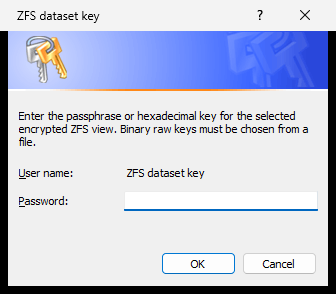
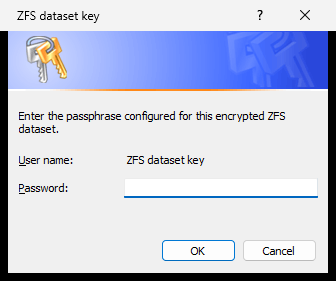
Finalize Windows UI evidence

diff --git a/src/bin/zfs-send-explore-windows/mod.rs b/src/bin/zfs-send-explore-windows/mod.rs
@@ -2137,7 +2137,7 @@ unsafe extern "system" fn action_dialog_proc(
     let state = GetWindowLongPtrW(hwnd, GWLP_USERDATA) as *mut ActionDialogState;
     match message {
         WM_COMMAND if !state.is_null() => {
-            let command = (wparam & 0xffff) as usize;
+            let command = wparam & 0xffff;
             if command >= 1000 {
                 (*state).selected = (command - 1000) as i32;
                 DestroyWindow(hwnd);
@@ -2342,7 +2342,10 @@ unsafe fn show_fallback_action_dialog(
         SetFocus(first_button);
     }
     let mut message = MSG::default();
-    while !state.finished {
+    loop {
+        if state.finished {
+            break;
+        }
         let result = GetMessageW(&mut message, null_mut(), 0, 0);
         if result <= 0 {
             if result == 0 {
@@ -2416,7 +2419,7 @@ unsafe fn show_action_dialog(
     let activation_config = ACTCTXW {
         cbSize: size_of::<ACTCTXW>() as u32,
         dwFlags: ACTCTX_FLAG_HMODULE_VALID | ACTCTX_FLAG_RESOURCE_NAME_VALID,
-        lpResourceName: 1_usize as *const u16,
+        lpResourceName: std::ptr::without_provenance::<u16>(1),
         hModule: instance,
         ..ACTCTXW::default()
     };

diff --git a/docs/windows-ux-review.md b/docs/windows-ux-review.md
@@ -8,14 +8,14 @@ The follow-up review applies one rule throughout the UI: when the app knows the 
 
 | Friction found after v0.5.0 | v0.5.1 response |
 | --- | --- |
-| The encrypted-view prompt said a binary raw key must be chosen from a file, but supplied no file action. | A native command-link dialog reads the configured `raw`, `hex`, or `passphrase` key format and places direct entry and the appropriate file chooser together. Raw datasets explicitly distinguish Slide's 64-character representation from an original 32-byte binary file. |
+| The encrypted-view prompt said a binary raw key must be chosen from a file, but supplied no file action. | A native contextual action chooser reads the configured `raw`, `hex`, or `passphrase` key format and places direct entry and the appropriate file chooser together. Raw datasets explicitly distinguish Slide's 64-character representation from an original 32-byte binary file. |
 | A missing or incorrect LUKS pool passphrase, ZFS key, or `.detto` agent password ended as a generic operation error. | The relevant direct/file choice reopens and the interrupted source, browse, or image operation retries after replacement. |
 | One ZFS key could be reused accidentally when switching encrypted datasets. | Retained ZFS keys are keyed by source and view selector; unrelated datasets do not silently receive one another's key material. |
 | Starting a new source cleared the working source and its credentials before validation. | Source replacement is transactional: the current catalog and listing remain active until the new source opens successfully. Scoped credentials are committed or cleared only after success. |
 | **Ctrl+O** and **Ctrl+Shift+O** could reuse text already present in the source box instead of showing a chooser. | Both accelerators always open their documented picker. **Choose** selects and opens in one step; **Open path** is the explicit action for pasted/manual paths. |
 | The image row showed blank disabled controls outside inception mode, and two unlabeled number boxes inside it. | Image-only navigation appears only inside an image. The Open-image action moves beside Extract, while advanced range fields are hidden by default and labeled when enabled. |
 | The active image's offset and size were carried into the next selected child image. | Child range fields are cleared after every successful descent. They now describe only the next selected file. |
-| Clearing credentials closed an active source without first exposing that consequence. | A warning command link explicitly says **Clear credentials and close source** before releasing the retained secrets and read session. |
+| Clearing credentials closed an active source without first exposing that consequence. | A warning action explicitly says **Clear credentials and close source** before releasing the retained secrets and read session. |
 
 ## What changed
 
@@ -33,7 +33,7 @@ The follow-up review applies one rule throughout the UI: when the app knows the 
 
 ## Primary workflow
 
-![The v0.5.0 source and snapshot browser](screenshots/windows/source-browser.png)
+![The v0.5.1 source and snapshot browser](screenshots/windows/source-browser.png)
 
 The first decision is now “file or physical drive,” not “send parser or pool parser.” **Choose** selects and immediately opens a file; **Open path** handles a pasted/manual source. A device is selected by observable hardware identity, then confirmed and opened. Once a source is recognized, the view selector, breadcrumb, path controls, and file list follow the same interaction model for streams, pools, and nested filesystems.
 
@@ -77,6 +77,6 @@ The full shortcut table is in the [Windows client guide](windows-client.md#keybo
 - Native clippy: all targets with warnings denied.
 - Windows x86-64 clippy: all targets with warnings denied.
 - Windows release build and packaging: performed by CI on a native Windows runner.
-- Screenshot capture: optimized executable, real Win32 controls, real Windows credential UI, committed send fixture, and committed ext4 fixture.
+- Screenshot capture: optimized executable, real Win32 controls, real Windows credential UI, committed send fixture, and committed ext4 fixture. The credential-method capture verifies both the chooser title and the transition into protected entry.
 
 Hardware acceptance is separate from UI correctness. The existing direct-member validation covers a physical exported vdev. A representative physical Slide Box and Datto Reverse RoundTrip drive are still recommended before broad operational deployment, especially for unsupported multi-vdev/RAIDZ layouts.

diff --git a/docs/test-evidence.md b/docs/test-evidence.md
@@ -23,7 +23,7 @@ ext4 fixture as a standalone disk image.
 The follow-up audit covers every place where the UI could identify a next
 action but previously returned only prose or a generic error. Encrypted ZFS
 views now expose their configured key format before traversal and show direct
-entry plus file selection in one native command-link dialog. Missing or rejected
+entry plus file selection in one native contextual action chooser. Missing or rejected
 ZFS, Datto pool, and Datto agent credentials return to the relevant choices and
 retry the interrupted operation. ZFS values are scoped by source and view.
 
@@ -39,6 +39,18 @@ fields now reset after every successful descent, are hidden by default, and are
 revealed with labels from Settings or directly from a failed image-open action.
 The native suite now contains 61 tests, including a catalog assertion that the
 credential format is available before an encrypted view is browsed.
+
+The final screenshots were captured from the optimized native executable by
+[Windows UI workflow run 31282726061](https://github.com/amcchord/zfs-send-explore/actions/runs/31282726061)
+at commit `ece29b43a960fef1bc5b5baffe5d45542ad365ff`, then inspected at original
+resolution before being committed:
+
+| Screenshot | SHA-256 |
+| --- | --- |
[4 lines of base64/hex data omitted]
 
 ## Slide and Datto recovery paths
 

diff --git a/docs/windows-client.md b/docs/windows-client.md
@@ -382,7 +382,8 @@ The v0.5.1 screenshots at the top of this guide are captured automatically from
 the optimized native executable on a GitHub-hosted Windows runner. The run opens
 the committed multi-snapshot send fixture, captures the format-aware credential
 method chooser and real Windows secure prompt, and opens the committed ext4
-fixture as a standalone image.
+fixture as a standalone image. The final capture is recorded in
+[workflow run 31282726061](https://github.com/amcchord/zfs-send-explore/actions/runs/31282726061).
 The service test also descends through a FAT image stored inside another FAT
 image and reads its child directory without exporting either image.
 
